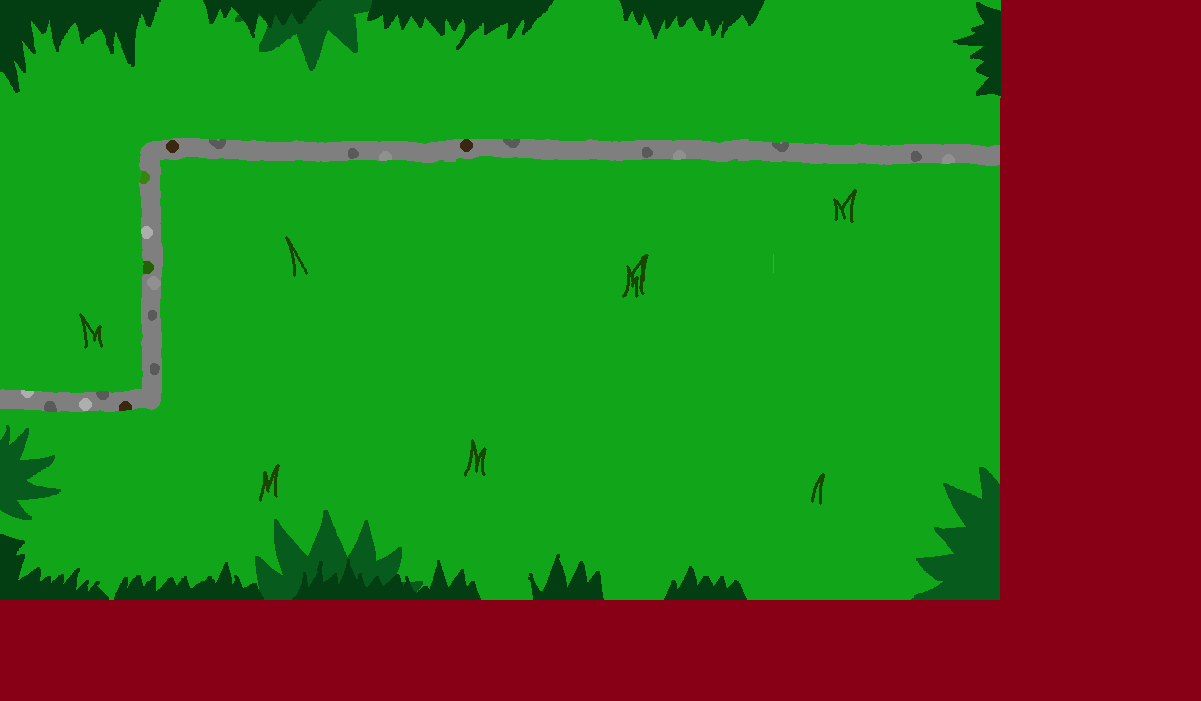
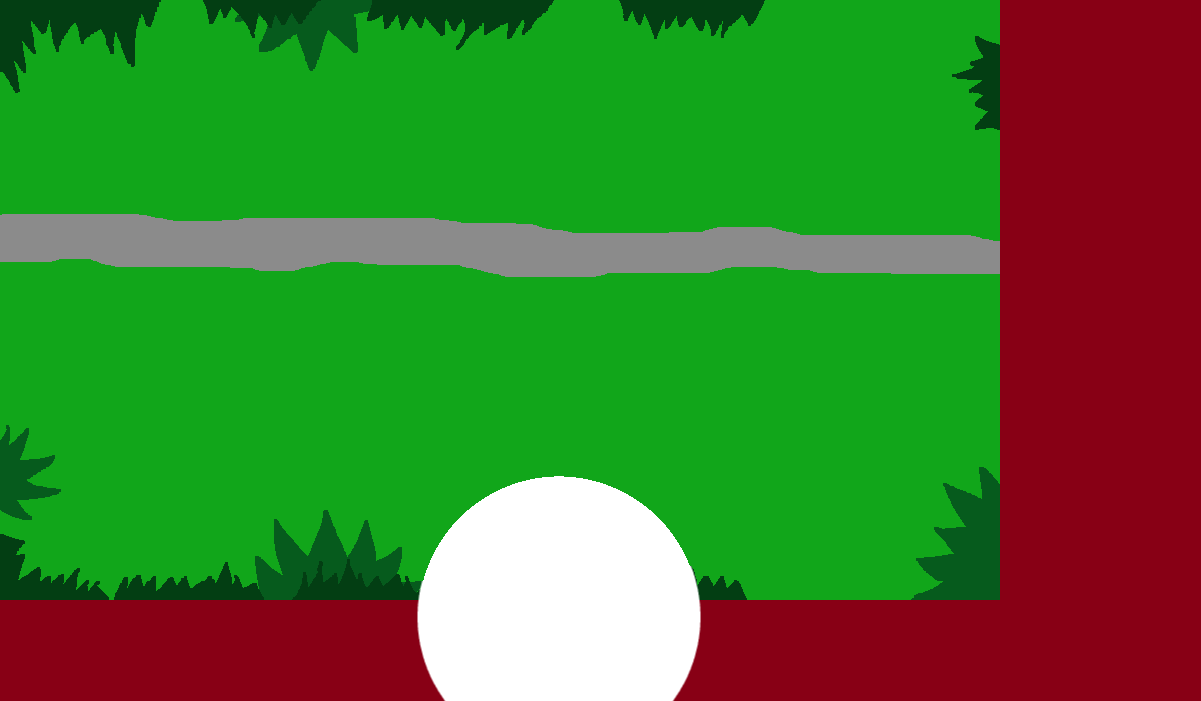
Changed background and limited area where you can place towers

diff --git a/src/play_game/fill_play_game_scene.c b/src/play_game/fill_play_game_scene.c
@@ -18,7 +18,10 @@ scene_t *fill_play_game_scene(void)
         return (NULL);
     scene->bg = NULL;
     scene->btn = NULL;
+    fill_background(&scene->bg, my_str_concat(IMAGE_PATH, "wolf_cd.png"), 415, 472);
+    fill_rect(scene->bg->spr, 287, 228);
     fill_background(&scene->bg, my_str_concat(IMAGE_PATH, "game_bg.png"), 0, 0);
+    fill_background(&scene->bg, my_str_concat(IMAGE_PATH, "wolf.png"), 452, 500);
     fill_btn(&scene->btn, my_str_concat(IMAGE_PATH, "btn/knife_tower_btn.png"), 1010, 50);
     fill_rect(scene->btn->spr, 180, 100);
     fill_btn(&scene->btn, my_str_concat(IMAGE_PATH, "btn/chemist_tower_btn.png"), 1010, 200);

diff --git a/src/handle_placing_towers/handle_placing_towers.c b/src/handle_placing_towers/handle_placing_towers.c
@@ -15,9 +15,11 @@ void handle_placing_towers(game_t *game, playing_t *game_info, button_t *btn)
     }
     if (game_info->tower_selected) {
         highlignt_selected_tower_btn(game_info->tower_selected, btn);
-        if (game->mouse->r_x != -1) {
+        if (game->mouse->r_x != -1 && check_if_can_place_tower(game->mouse)) {
             add_tower(game_info, game->mouse->r_x, game->mouse->r_y);
             mouse_reset(game->mouse);
         }
+        if (game->mouse->r_x != -1)
+            mouse_reset(game->mouse);
     }
 }

diff --git a/src/handle_placing_towers/check_if_can_place_tower.c b/src/handle_placing_towers/check_if_can_place_tower.c
@@ -1,0 +1,20 @@
+/*
+** Twi-Fight
+** 
+** File description:
+** check_if_can_place_tower
+*/
+
+#include "game.h"
+#include "ad_lib.h"
+
+int check_if_can_place_tower(mouse_t *mouse)
+{
+    if (mouse->r_x > 950 || mouse->r_y > 550)
+        return (0);
+    if (mouse->r_y < 300 && mouse->r_y > 150)
+        return (0);
+    if (my_vector_norm(mouse->r_x, mouse->r_y, 555, 618) < 190)
+        return (0);
+    return (1);
+}

diff --git a/include/game.h b/include/game.h
@@ -144,6 +144,7 @@
     void highlignt_selected_tower_btn(int selected, button_t *btn);
     void handle_selecting_tower(int *state, playing_t *game_info);
     void add_tower(playing_t *game_info, int x, int y);
+    int check_if_can_place_tower(mouse_t *mouse);
 
     //////////////////// scenes ////////////////////
 

diff --git a/adrien_lib/my_vector_norm.c b/adrien_lib/my_vector_norm.c
@@ -1,0 +1,16 @@
+/*
+** EPITECH PROJECT, 2021
+** Adrien Lib
+** File description:
+** my_vector_norm
+*/
+
+#include "ad_lib.h"
+
+int my_vector_norm(int x1, int y1, int x2, int y2)
+{
+    int result = (x1 - x2) * (x1 - x2);
+
+    result = result + (y1 - y2) * (y1 - y2);
+    return (my_square_root(result));
+}

diff --git a/adrien_lib/my_square_root.c b/adrien_lib/my_square_root.c
@@ -1,0 +1,16 @@
+/*
+** EPITECH PROJECT, 2021
+** Untitled (Workspace)
+** File description:
+** my_square_root
+*/
+
+int my_square_root(int number)
+{
+    int result = 1;
+
+    if (number <= 0)
+        return (0);
+    for (; result * result < number; result++);
+    return (result);
+}

diff --git a/include/ad_lib.h b/include/ad_lib.h
@@ -15,5 +15,7 @@
     int my_strlen(char *str);
     char *read_file(char *file_name);
     char *my_str_concat(char *s1, char *s2);
+    int my_square_root(int number);
+    int my_vector_norm(int x1, int y1, int x2, int y2);
 
 #endif /* !AD_LIB_H_ */
